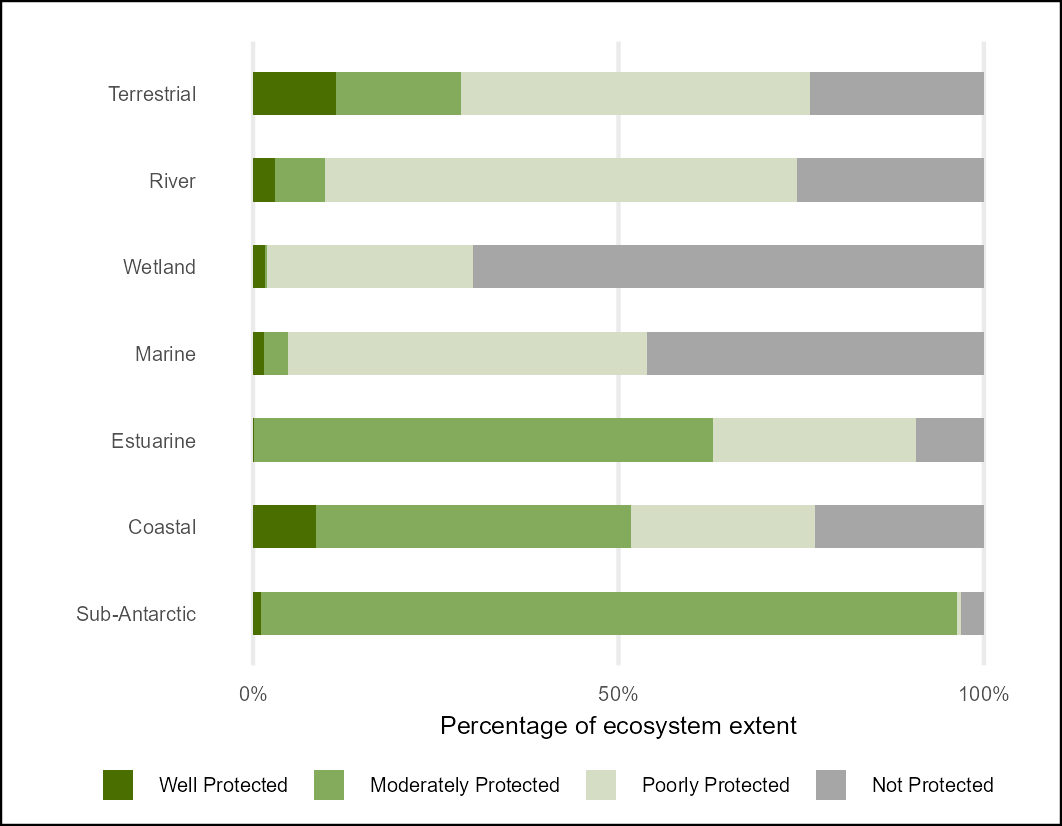
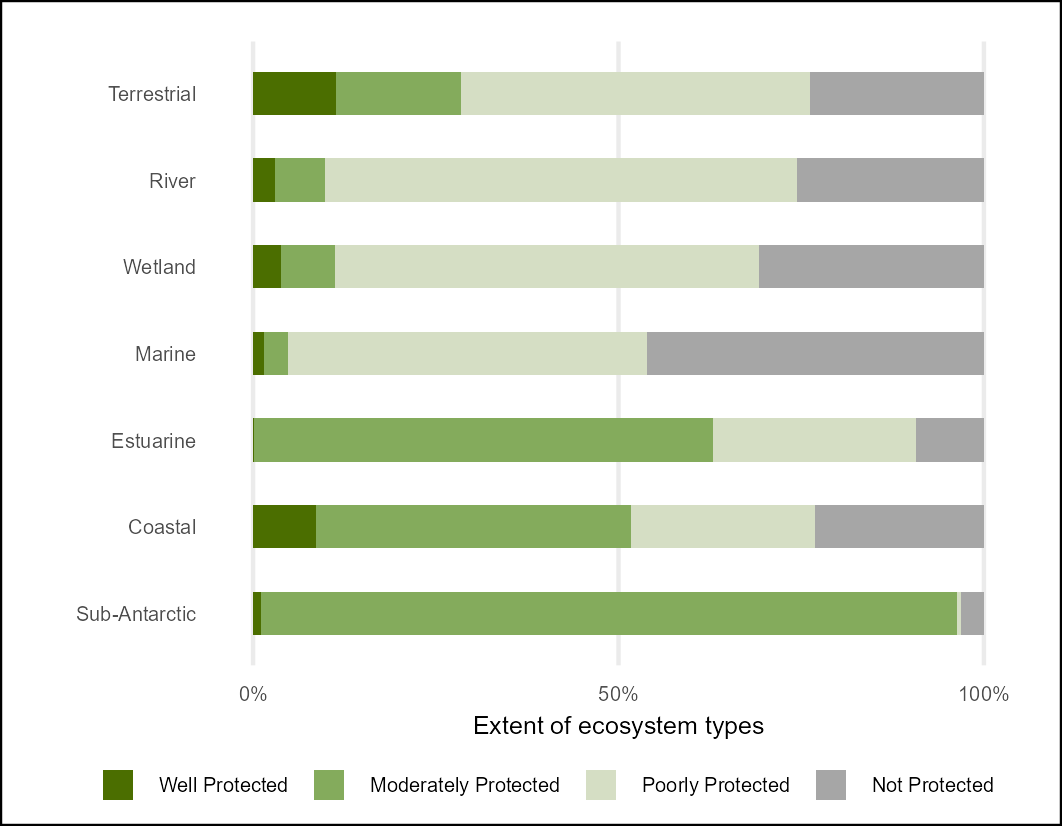
updated wetland inputs (prelim)

Changed region(s): [[0.435, 0.2724, 0.7147, 0.3632], [0.435, 0.8475, 0.7458, 0.908], [0.2486, 0.2724, 0.3418, 0.3632]]

diff --git a/README.md b/README.md
@@ -8,27 +8,33 @@ Terrestial, marine, estuarine and freshwater assessments completed in 2025, the 
 
 **GitHub Repositories for each assessment detail the assessment workflows:**
 
-RLE_ter and EPL_ter
+RLE_ter and EPL_ter:
 
-RLE_est and EPL_est
+RLE_est and EPL_est:
 
-RLE_riv and EPL_riv
+RLE_riv and EPL_riv:
 
-RLE_wet and EPL wet
+RLE_wet and EPL wet:
 
-Marine
+Marine:
 
-Coastal
+Coastal:
 
-After importing all the results for eah realm they were combined in R tidyverse and plotted using ggplot2:
+After importing all the results for each realm they were combined in R tidyverse and plotted using ggplot2:
 
-[RLE_realm.qmd](RLE_realm.qmd)
-
-[EPL_realm.qmd](EPL_realm.qmd)
+[Relam_results.qmd](Relam_results.qmd)
 
 ## Results
 
+[outputs/epl_cout_per_realm.csv](outputs/epl_cout_per_realm.csv)
+
+[outputs/epl_ext_per_realm.csv](outputs/epl_ext_per_realm.csv)
+
+[outputs/rle_cout_per_realm.csv](outputs/rle_cout_per_realm.csv)
+
+[outputs/rle_ext_per_realm.csv](outputs/rle_count_per_realm.csv)
+
 | Count of Types | Extent of Types |
-|----|----|
+|------------------------------------|------------------------------------|
 | ![](outputs/rle_count_plot.png) | ![](outputs/rle_ext_plot.png) |
 | ![](outputs/epl_count_plot.png) | ![](outputs/epl_ext_plot.png){width="486"} |
